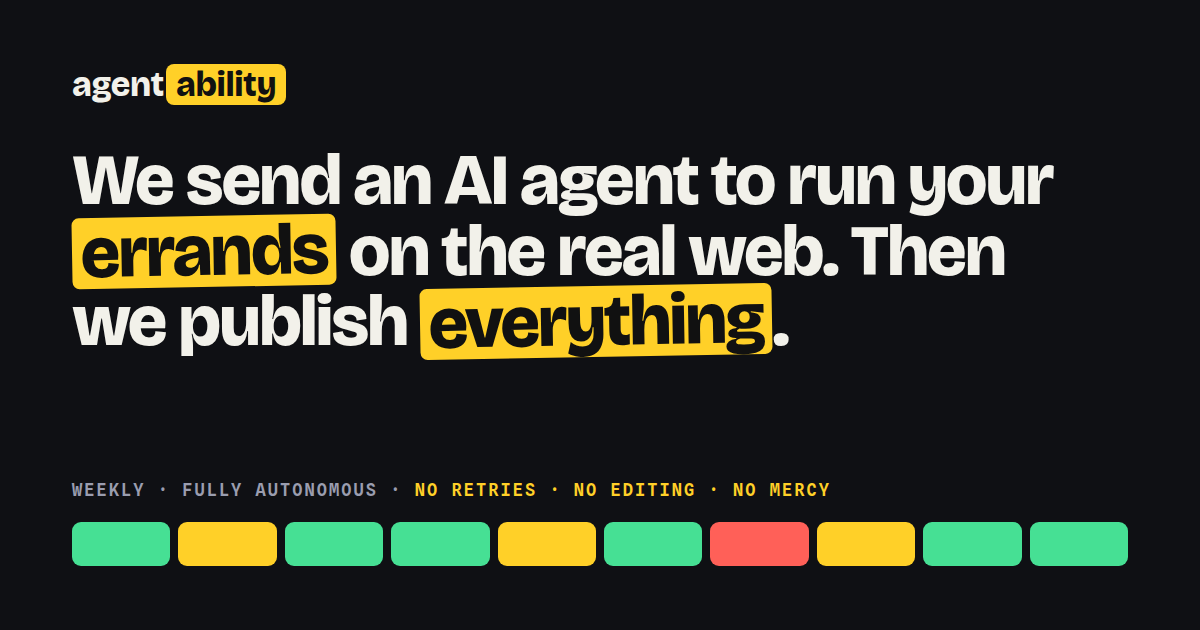
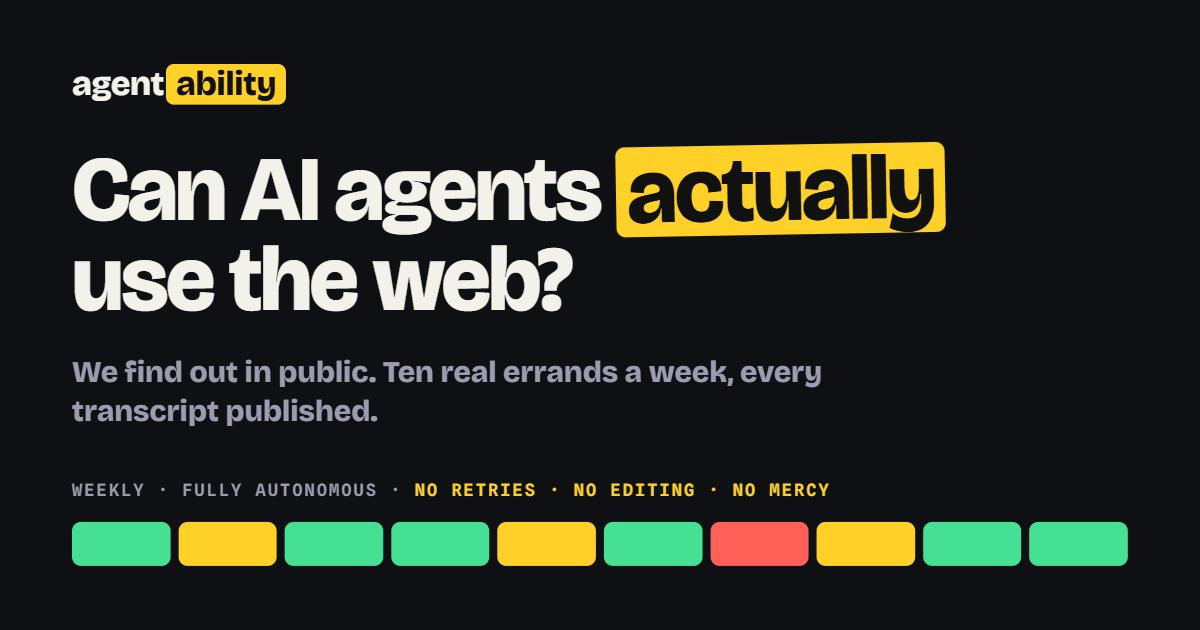
Lead with the question, not the slogan; add a share button
A first-time visitor could not tell what this site is. The headline said "we
send an AI agent to run YOUR errands" — which promises a service, so people
spent their first seconds looking for where to submit an errand and left. The
page never said what kind of thing it is, never asked the question the project
exists to answer, and buried the 113-site index a thousand pixels down under
"the reference data".

The hero is now that question, and the scoreboard directly under it is the
answer — the big number stops floating and starts meaning something. Under it:
one paragraph saying plainly what the site is and how it works, two actions
(read the transcripts / see the scores), and a line of doors for the three
audiences, so "what do I do here" is answered above the fold.

Share button on the homepage and every episode: native share sheet where the
browser has one, clipboard copy otherwise. A cancelled sheet is a decision and
stays silent, but a failed one falls through to copy — the first version
swallowed that error and left the button looking broken.

Also: renamed the hero block's class off .answer, which collided with the
agent-report card and was printing "AGENT'S REPORT" above the scoreboard; new
social card matching the new headline; page title and description now say what
the site is.

Claude-Session: https://claude.ai/code/session_01FnBzgKJARAw7ibJvqH4Q8Q

diff --git a/scripts/build-site.ts b/scripts/build-site.ts
@@ -249,6 +249,22 @@ gtag('config', 'G-55RKNLGPNT');
   .hero-cta { display: inline-block; margin-top: 22px; font-family: var(--display); font-weight: 700; font-size: 1rem; background: var(--hazard); color: #111 !important; text-decoration: none; padding: 12px 22px; border-radius: 999px; transition: transform .15s; }
   .hero-cta:hover { transform: translateY(-2px) rotate(-1deg); }
   @media (max-width: 640px) { .hide-sm { display: none; } }
+  /* the scoreboard is the answer to the headline, so the two read as one unit.
+     Named thisweek, not answer — .answer is already the agent's report card. */
+  .thisweek { margin-top: 34px; padding-top: 22px; border-top: 2px solid var(--line); }
+  .thisweek-label { font-family: var(--mono); font-size: .74rem; font-weight: 600; letter-spacing: .12em; text-transform: uppercase; color: var(--hazard); }
+  .thisweek .board { margin-top: 14px; }
+  .hero-actions { display: flex; flex-wrap: wrap; align-items: center; gap: 12px; margin-top: 30px; }
+  .hero-actions .hero-cta { margin-top: 0; }
+  .hero-alt { display: inline-block; font-family: var(--display); font-weight: 700; font-size: 1rem; color: var(--ink) !important;
+    text-decoration: none; padding: 12px 20px; border: 1px solid #3a3d4d; border-radius: 999px; transition: border-color .15s, transform .15s; }
+  .hero-alt:hover { border-color: var(--ink); transform: translateY(-2px); }
+  .share { font-family: var(--display); font-weight: 700; font-size: 1rem; color: var(--dim); background: none; cursor: pointer;
+    padding: 12px 20px; border: 1px dashed #3a3d4d; border-radius: 999px; transition: color .15s, border-color .15s, transform .15s; }
+  .share:hover { color: var(--ink); border-color: var(--ink); transform: translateY(-2px); }
+  .share.done { color: var(--win); border-color: var(--win); border-style: solid; }
+  .orient { margin-top: 18px; font-size: .92rem; color: var(--dim); max-width: 72ch; }
+  .orient a { color: var(--link); }
   /* guides */
   .guide h2 { margin-top: 44px; }
   .guide h3 { font-family: var(--display); font-weight: 700; font-size: 1.08rem; margin: 28px 0 8px; display: flex; flex-wrap: wrap; align-items: baseline; gap: 10px; }
@@ -288,6 +304,36 @@ ${opts.body}
     }
   }, true);
   document.addEventListener('click', function (e) {
+    var btn = e.target && e.target.closest ? e.target.closest('.share') : null;
+    if (btn) {
+      var url = btn.getAttribute('data-share-url');
+      var title = btn.getAttribute('data-share-title') || document.title;
+      var label = btn.querySelector('.share-label');
+      var say = function (text, ok) {
+        if (!label) return;
+        label.textContent = text;
+        btn.classList.toggle('done', !!ok);
+        setTimeout(function () { label.textContent = 'Share'; btn.classList.remove('done'); }, 2400);
+      };
+      var copy = function () {
+        if (!navigator.clipboard) { say(url, false); return; }
+        navigator.clipboard.writeText(url).then(function () {
+          say('Link copied', true);
+          send('share', { method: 'clipboard', page_path: location.pathname });
+        }, function () { say('Copy failed', false); });
+      };
+      // Native share where it works; a cancelled sheet is a decision, not a failure,
+      // but a broken one must still leave the visitor with a link.
+      if (navigator.share) {
+        navigator.share({ title: title, text: title, url: url }).then(
+          function () { send('share', { method: 'native', page_path: location.pathname }); },
+          function (err) { if (!err || err.name !== 'AbortError') copy(); }
+        );
+      } else {
+        copy();
+      }
+      return;
+    }
     var a = e.target && e.target.closest ? e.target.closest('a[href]') : null;
     if (!a) return;
     if (a.href.indexOf('issues/new') !== -1) send('audit_request_click', { page_path: location.pathname });
@@ -677,40 +723,59 @@ async function main() {
   const tickerSpans = latest
     ? `<span>no retries</span><span>no editing</span><span>no cherry-picking</span><span>read-only <b>http get</b> — no javascript, no logins, no forms</span><span>agent: <b>${esc(latest.model)}</b></span><span>producer: <b>${latest.producedBy === "seed" ? "seed tasks (producer offline)" : esc(latest.producerModel ?? LEGACY_PRODUCER_MODEL)}</b>${latest.producedBy === "seed" ? "" : " + live search"}</span><span>every transcript published verbatim</span>`
     : "";
+  // The hero is a question the scoreboard answers. A first-time visitor has to learn
+  // three things before anything else: what this site is, what question it exists to
+  // answer, and what today's answer is. Everything else waits.
+  const shareBtn = (url: string, title: string, cls = "share") =>
+    `<button class="${cls}" type="button" data-share-url="${esc(url)}" data-share-title="${esc(title)}"><span class="share-label">Share</span></button>`;
+
   const fieldtestHero = latest
     ? `
-<p class="eyebrow rise"><span class="live"></span>The Agent Field Test · episode of ${prettyDate(latest.date)} · new every week, fully autonomous</p>
-<h1 class="rise d1">We send an AI agent to run your <span class="hl">errands</span> on the real web. Then we publish <span class="hl">everything</span>.</h1>
-<p class="lede rise d2">An AI producer reads the week's news and invents real tasks — find the true price, cancel the
-subscription, reach a human, pick a product. A real agent (${esc(latest.model)}) attempts them with read-only web
-access. Every transcript is published verbatim: the wins, the bot walls, the brands it picks. (We pay for the API
-calls for fun.)</p>
-<a class="hero-cta rise d3" href="/fieldtest/${latest.date}/">Watch this week's episode →</a>
-<div class="ticker rise d4"><div class="ticker-track">${tickerSpans}${tickerSpans}</div></div>
-<div class="board">
-  <div>
-    <div class="score">${latest.stats.completed}<i>/${latest.stats.tasks}</i></div>
-    <span class="caption">errands the agent finished this week</span>
+<p class="eyebrow rise"><span class="live"></span>Agentability · an open experiment on the agentic web · new results every week</p>
+<h1 class="rise d1">Can AI agents <span class="hl">actually</span> use the web?</h1>
+<p class="lede rise d2"><b>We find out in public, every week.</b> An AI producer invents ten everyday errands — find the
+true price, cancel the subscription, reach a human, pick between brands — and a real AI agent attempts them using
+nothing but plain web requests: no logins, no JavaScript, no human help. Every transcript is published verbatim, wins
+and failures alike. Alongside the show, ${s ? s.audited : "113"} well-known sites are scored on how usable they
+actually are for an agent.</p>
+<div class="thisweek rise d3">
+  <p class="thisweek-label">This week's answer · episode of ${prettyDate(latest.date)}</p>
+  <div class="board">
+    <div>
+      <div class="score">${latest.stats.completed}<i>/${latest.stats.tasks}</i></div>
+      <span class="caption">errands the agent actually finished</span>
+    </div>
+    <p class="runline"><b>${latest.stats.wallsHit}</b> bot walls · <b>${latest.stats.pageVisits}</b> pages read · <b>${latest.stats.domainsVisited}</b> sites visited</p>
   </div>
-  <p class="runline"><b>${latest.stats.wallsHit}</b> bot walls · <b>${latest.stats.pageVisits}</b> pages read · <b>${latest.stats.domainsVisited}</b> sites visited</p>
+  <div class="stripwrap">${resultStrip(latest, `/fieldtest/${latest.date}/`)}</div>
 </div>
-<div class="stripwrap">${resultStrip(latest, `/fieldtest/${latest.date}/`)}</div>
-<h2>Where it got interesting</h2>
+<div class="hero-actions rise d4">
+  <a class="hero-cta" href="/fieldtest/${latest.date}/">Read this week's transcripts →</a>
+  <a class="hero-alt" href="/ai-index/">See all ${s ? s.audited : ""} site scores</a>
+  ${shareBtn(SITE, "Can AI agents actually use the web? Agentability tests it in public, every week.")}
+</div>
+<p class="orient rise d4">New here? <a href="/fieldtest/${latest.date}/">Watch an agent try and fail</a> ·
+<a href="/ai-index/">look up a site's score</a> · <a href="/guides/ai-readiness-audit-checklist/">fix your own site</a> ·
+<a href="/docs/">take the raw data</a></p>
+<div class="ticker rise d4"><div class="ticker-track">${tickerSpans}${tickerSpans}</div></div>
+<h2>Where it got interesting this week</h2>
 ${segCards(latest)}`
     : `
-<p class="eyebrow"><span class="live"></span>The Agent Field Test · first episode in production</p>
-<h1>We send an AI agent to run your <span class="hl">errands</span> on the real web. Then we publish <span class="hl">everything</span>.</h1>
-<p class="lede">A weekly, fully autonomous show: an AI producer invents real errands, a real agent attempts them with
-read-only web access, and the full transcripts are published here — wins, bot walls, and all.</p>`;
+<p class="eyebrow"><span class="live"></span>Agentability · an open experiment on the agentic web</p>
+<h1>Can AI agents <span class="hl">actually</span> use the web?</h1>
+<p class="lede"><b>We find out in public, every week.</b> An AI producer invents ten everyday errands, a real AI agent
+attempts them with read-only web access, and every transcript is published verbatim — wins and failures alike. The
+first episode is in production.</p>`;
   // Only worth splitting the table when the two halves can't overlap.
   const bottomFive = summary && summary.leaderboard.length > 12 ? summary.leaderboard.slice(-5) : [];
   const landingBody = `${fieldtestHero}
 ${summary && s
     ? `
-<h2>The reference data: the AI-Readiness Index</h2>
-<p class="lede">Behind the show sits the panel: ${s.audited} well-known sites audited weekly against the conventions
-real AI agents rely on — <code>llms.txt</code>, crawler policy, parseable content, structured data, MCP. When the
-agent hits a wall, the index usually already predicted it.</p>
+<h2>The other half: ${s.audited} sites, scored</h2>
+<p class="lede">The errands come from a standing panel of ${s.audited} well-known sites, each audited every week against the
+conventions real AI agents rely on — <code>llms.txt</code>, crawler policy, content you can read without a browser,
+structured data, MCP. Every site gets a public report with a score and the exact fix for each failed check. When the
+agent hits a wall in an episode, the index has usually already predicted it.</p>
 <div class="figs">
   <div class="fig"><b>${s.averageScore}/100</b><small>average readiness score</small></div>
   <div class="fig"><b>${s.pctLlmsTxt}%</b><small>publish llms.txt</small></div>
@@ -736,10 +801,10 @@ with verbatim transcripts, reproducible checks, and open data. History accrues w
   await fsp.writeFile(
     path.join(OUT, "index.html"),
     shell({
-      title: "Agentability — we send AI agents to use the real web",
+      title: "Agentability — can AI agents actually use the web?",
       description: latest
-        ? `The Agent Field Test: a real AI agent runs real errands on the real web weekly, transcripts published verbatim. This episode: ${latest.stats.completed}/${latest.stats.tasks} tasks done, ${latest.stats.wallsHit} bot walls.`
-        : "A weekly autonomous show plus an open index: real AI agents attempt real web tasks, and 100+ well-known sites are audited for AI-agent readiness.",
+        ? `An open experiment, run weekly in public: a real AI agent attempts ten everyday web errands and every transcript is published verbatim. This week it finished ${latest.stats.completed} of ${latest.stats.tasks} and hit ${latest.stats.wallsHit} bot walls. Plus ${s ? s.audited : 113} sites scored for AI-agent readiness.`
+        : "An open experiment: a real AI agent attempts everyday web errands each week with every transcript published verbatim, alongside an index of well-known sites scored for AI-agent readiness.",
       canonicalPath: "/",
       body: landingBody,
       jsonLd: {
@@ -986,6 +1051,10 @@ web access. Each block below is named for the site it ran against, and coloured 
   <p class="runline"><b>${ep.stats.wallsHit}</b> bot walls · <b>${ep.stats.pageVisits}</b> pages read · <b>${ep.stats.domainsVisited}</b> sites visited · we pay for these API calls, for fun</p>
 </div>
 <div class="stripwrap">${resultStrip(ep, "")}</div>
+<div class="hero-actions">
+  ${shareBtn(`${SITE}/fieldtest/${ep.date}/`, `An AI agent was given ${ep.stats.tasks} everyday web errands and finished ${ep.stats.completed}. Every transcript published verbatim.`)}
+  <a class="hero-alt" href="/">What is this?</a>
+</div>
 ${ep.runs.map(taskCard).join("\n")}
 <div class="cta">Every transcript above is verbatim — no retries, no editing, no cherry-picking. Method, limits, and
 rules: <a href="/methodology/">methodology</a>. Raw episode JSON: <a href="/data/fieldtest/${esc(ep.date)}.json">open data</a>.</div>`,

diff --git a/scripts/og-card.html b/scripts/og-card.html
@@ -6,17 +6,19 @@
   .card{position:relative;width:1200px;height:630px;padding:64px 72px;box-sizing:border-box;font-family:"Bricolage Grotesque",sans-serif;color:#f2f1ea}
   .brand{font-weight:800;font-size:34px;letter-spacing:-.01em}
   .brand span{background:#ffd028;color:#111;padding:0 10px;border-radius:8px;margin-left:2px}
-  h1{font-weight:800;font-size:72px;line-height:.98;letter-spacing:-.03em;margin:40px 0 0;max-width:1000px}
+  h1{font-weight:800;font-size:92px;line-height:.98;letter-spacing:-.03em;margin:40px 0 0;max-width:1000px}
   .hl{background:#ffd028;color:#111;padding:0 .12em;border-radius:.1em;display:inline-block;transform:rotate(-1deg)}
   .strip{position:absolute;left:72px;right:72px;bottom:64px;display:flex;gap:8px}
   .strip i{flex:1;height:44px;border-radius:9px;background:#46e094}
   .strip i.y{background:#ffd028}.strip i.r{background:#ff6058}
+  .sub{margin-top:28px;font-size:30px;line-height:1.3;color:#9a9daf;max-width:900px}
   .rule{position:absolute;left:72px;bottom:130px;font-family:"Spline Sans Mono",monospace;font-weight:600;font-size:17px;letter-spacing:.12em;text-transform:uppercase;color:#9a9daf}
   .rule b{color:#ffd028}
 </style>
 <div class="card">
   <div class="brand">agent<span>ability</span></div>
-  <h1>We send an AI agent to run your <span class="hl">errands</span> on the real web. Then we publish <span class="hl">everything</span>.</h1>
+  <h1>Can AI agents <span class="hl">actually</span> use the web?</h1>
+  <div class="sub">We find out in public. Ten real errands a week, every transcript published.</div>
   <div class="rule">weekly · fully autonomous · <b>no retries · no editing · no mercy</b></div>
   <div class="strip"><i></i><i class="y"></i><i></i><i></i><i class="y"></i><i></i><i class="r"></i><i class="y"></i><i></i><i></i></div>
 </div>
